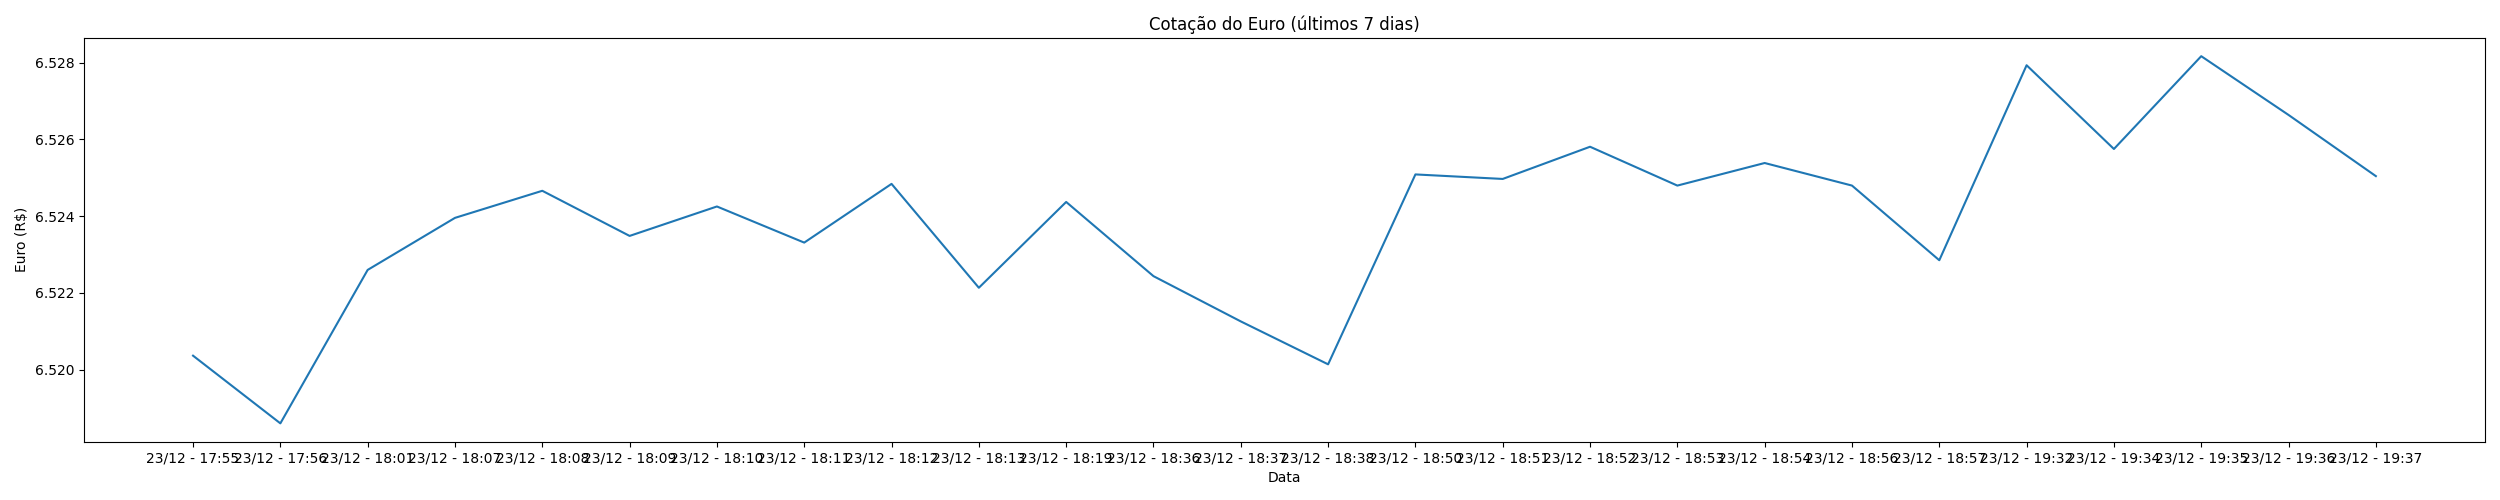
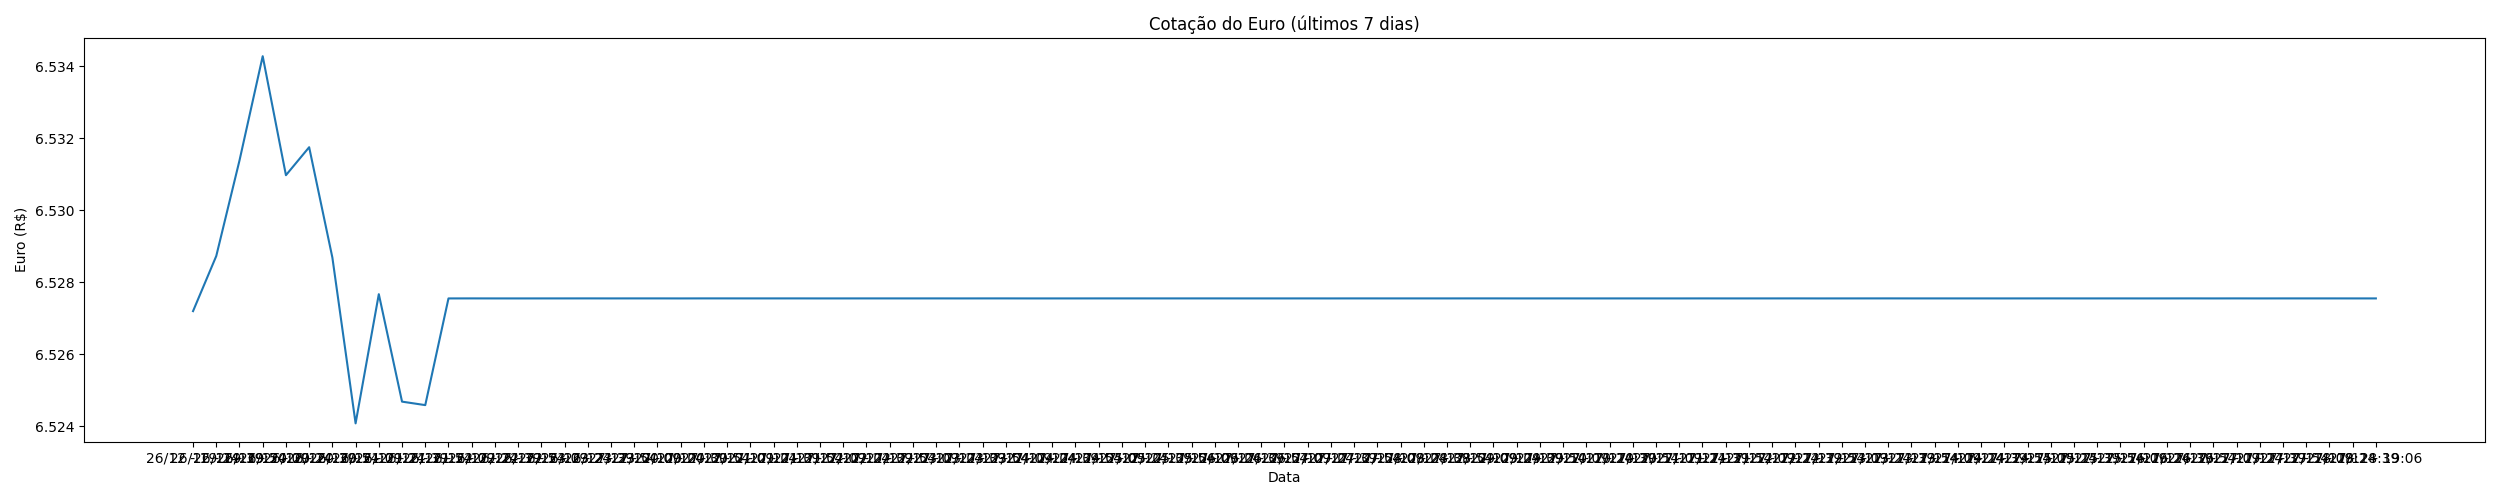
fix: arrume os relatorios

diff --git a/teste.py b/teste.py
@@ -11,104 +11,22 @@ import conectaBanco as db
 import pandas as pd
 import matplotlib.pyplot as plt
 API_TOKEN  = os.environ.get("API_TOKEN")
-def cotacao_euro():
-    url = f"https://api.fxratesapi.com/latest?api_key={API_TOKEN}&base=EUR&currencies=BRL&resolution=1m"
-    payload = {}
-    headers = {"User-Agent": "Mozilla/5.0 (TelegramBot/1.0)"}
-    response = requests.request("GET", url, headers=headers, data=payload)
-    
-    try:
-        responseJson = response.json()
-        valor = responseJson['rates']['BRL']
-        data_utc = datetime.strptime(
-            responseJson['date'],
-            '%Y-%m-%dT%H:%M:%S.%fZ'
-        ).replace(tzinfo=timezone.utc)
 
-        # (opcional) converter para Brasil, mas mantendo datetime
-        data_brasil = data_utc.astimezone(ZoneInfo("America/Sao_Paulo"))
-        cria_retorno = f"{data_brasil} \n O Euro está R${valor:.2f}"
-        db.insereDados(data_brasil, valor, 'euroHora')
-        
-        brasil_tz = pytz.timezone("America/Sao_Paulo")
-        agora = datetime.now(brasil_tz)
-        resultadosSemana(agora)
-        return cria_retorno
-    except Exception as e:  
-        return f"API de cotação retornou {response.status_code} - erro {e} \n por favor verifique"
-
-def resultadosSemana(agora:datetime):
-    if(db.colecao_tem_dados('euroHora')):
-        df = db.criaRelatorio(7, 'euroHora')
-        print(df.head())
-        gerar_grafico_euro(df)
-        
-def gerar_grafico_euro(df, caminho="euro.png"):
-    plt.figure(figsize=(25, 5))
-    plt.plot(df["dataHora"].dt.strftime("%d/%m - %H:%M"), df["valor"])
-    plt.xlabel("Data")
-    plt.ylabel("Euro (R$)")
-    plt.title("Cotação do Euro (últimos 7 dias)")
-    plt.tight_layout()
-    plt.savefig(caminho)
-    plt.close()
-    
 TZ_BRASIL = ZoneInfo("America/Sao_Paulo")
-
-async def gerar_relatorio(chat_id, context, dias):
-    if db.colecao_tem_dados("euroDia"):
-        df = db.criaRelatorio(dias, "euroDia")
-        db.gerar_grafico_euro(df)
-        buf = BytesIO()
-        plt.savefig(buf, format="png")
-        buf.seek(0)
-        
-        # await context.bot.send_photo(
-        #     chat_id=chat_id,
-        #     photo=buf,
-        #     caption=f'Relatório referente aos ultimos {dias} dias'
-        # )
-        
-        return df
-def agora_brasil() -> datetime:
-    return datetime.now(TZ_BRASIL)
-async def relatorio():
-    
+def passa_dados_para_eurodia():
     try:
-        dias = 7
-        print(dias)
-        
-        if dias <= 0:
-            raise ValueError
-
-        # Criar relatório
-        df = await gerar_relatorio('', '', dias)
-        if(df is None):
-            return
-        # Exemplo de métricas
-        media = df["valor"].mean()
-        minimo = df["valor"].min()
-        maximo = df["valor"].max()
-
-        mensagem = (
-            f"📊 *Relatório do Euro — últimos {dias} dias*\n\n"
-            f"📈 Máximo: R$ {maximo:.2f}\n"
-            f"📉 Mínimo: R$ {minimo:.2f}\n"
-            f"📊 Média: R$ {media:.2f}"
-        )
-        print(mensagem)
+        print(db.colecao_tem_dados("euroHora"))
+        if db.colecao_tem_dados("euroHora"):
+            df = db.criaRelatorio(1, "euroHora")
+            # Converter apenas para exibição
+            data_brasil = datetime.now(TZ_BRASIL)
+            media = df["valor"].mean()
+            db.insereDados(data_brasil, media, "euroDia")
+            db.deletaDados()
     except Exception as e:
-        return f"❌ Erro ao buscar cotação: {e}"
-    # await context.bot.send_message(chat_id=chat_id, text=mensagem)
-def esta_horario_comercial() -> bool:
-    agora = agora_brasil()
-    dia_util = agora.weekday() < 6 # seg–sab
-    horario = 8 <= (agora.hour  + 3) < 18
-    return dia_util and horario
+         return print(f"❌ Erro ao buscar cotação: {e}")
+
+     
 if __name__ == "__main__":
-    # cotacao_euro()
-    agora = agora_brasil()
-    print(agora.weekday())
-    print(agora.hour)
     
-    print(esta_horario_comercial())
+      passa_dados_para_eurodia()

diff --git a/cotaEuro.py b/cotaEuro.py
@@ -22,10 +22,7 @@ def agora_brasil() -> datetime:
 async def esta_horario_comercial(chat_id, context) -> bool:
     agora = agora_brasil()
     dia_util = agora.weekday() < 5 # seg–sab
-    await context.bot.send_message(chat_id=chat_id, text=f"agora:{str(agora)}")
-    await context.bot.send_message(chat_id=chat_id, text=f"agora.hour:{str(agora.hour)}")
     horario = 8 <= agora.hour < 18
-    await context.bot.send_message(chat_id=chat_id, text=f"horario: {str(horario)}")
     if agora.hour == 18:
         passa_dados_para_eurodia()
     # Sabado às 18h → gerar relatório semanal
@@ -39,14 +36,16 @@ async def esta_horario_comercial(chat_id, context) -> bool:
 
 
 def passa_dados_para_eurodia():
-    if db.colecao_tem_dados("euroHora"):
-        df = db.criaRelatorio(1, "euroHora")
-        # Converter apenas para exibição
-        data_brasil = agora_brasil()
-        media = df["valor"].mean()
-        db.insereDados(data_brasil, media, "euroDia")
-        db.deletaDados()
-
+    try:
+        if db.colecao_tem_dados("euroHora"):
+            df = db.criaRelatorio(1, "euroHora")
+            # Converter apenas para exibição
+            data_brasil = agora_brasil()
+            media = df["valor"].mean()
+            db.insereDados(data_brasil, media, "euroDia")
+            db.deletaDados()
+    except Exception as e:
+         return print(f"❌ Erro ao buscar cotação: {e}")
 
 async def gerar_relatorio(chat_id, context, dias, colecao):
     try:
@@ -84,7 +83,6 @@ async def cotacao_euro() -> str:
         # Converter apenas para exibição
         data_brasil = agora_brasil()
 
-        # Persistência (salvar datetime, não string)
         db.insereDados(data_brasil, valor, "euroHora")
 
         data_exibicao = data_brasil.strftime("%d/%m/%Y - %H:%M")
@@ -102,8 +100,7 @@ async def cotacao_euro() -> str:
 async def callback_auto_message(context: ContextTypes.DEFAULT_TYPE):
     job = context.job
 
-    horario_comercial = esta_horario_comercial(job.data, context)
-    await context.bot.send_message(chat_id=job.data, text=f"horario_comercial: {horario_comercial}")
+    horario_comercial = await esta_horario_comercial(job.data, context)
     if horario_comercial:
         mensagem = await cotacao_euro()
         await context.bot.send_message(chat_id=job.data, text=mensagem)

diff --git a/conectaBanco.py b/conectaBanco.py
@@ -1,11 +1,13 @@
 import os
+from zoneinfo import ZoneInfo
 from pymongo import MongoClient
 from datetime import datetime, timedelta, timezone
 import pandas as pd
+import matplotlib.pyplot as plt
 
 URI = os.environ.get("URI_MONGO_DB")
 cliente = MongoClient(URI, serverSelectionTimeoutMS=5000)
-
+TZ_BRASIL = ZoneInfo("America/Sao_Paulo")
 db = cliente['CotaEuro_servehope']
 
 def criaColecao(nome):
@@ -65,7 +67,7 @@ def deletaDados():
                 
 def criaRelatorio(dias, colecao):
     try:
-        agora = datetime.now(timezone.utc)
+        agora = datetime.now(TZ_BRASIL)
         inicio = agora - timedelta(days=dias)
         
         resultados = db[colecao].find({
@@ -78,7 +80,16 @@ def criaRelatorio(dias, colecao):
     except Exception as e:
         print("Erro de conexão:", e)
         
-    
+def gerar_grafico_euro(df, caminho="euro.png"):
+    plt.figure(figsize=(25, 5))
+    plt.plot(df["dataHora"].dt.strftime("%d/%m - %H:%M"), df["valor"])
+    plt.xlabel("Data")
+    plt.ylabel("Euro (R$)")
+    plt.title("Cotação do Euro (últimos 7 dias)")
+    plt.tight_layout()
+    plt.savefig(caminho)
+    plt.close()    
         
 def colecao_tem_dados(colecao):
+    print(db[colecao])
     return db[colecao].find_one() is not None
